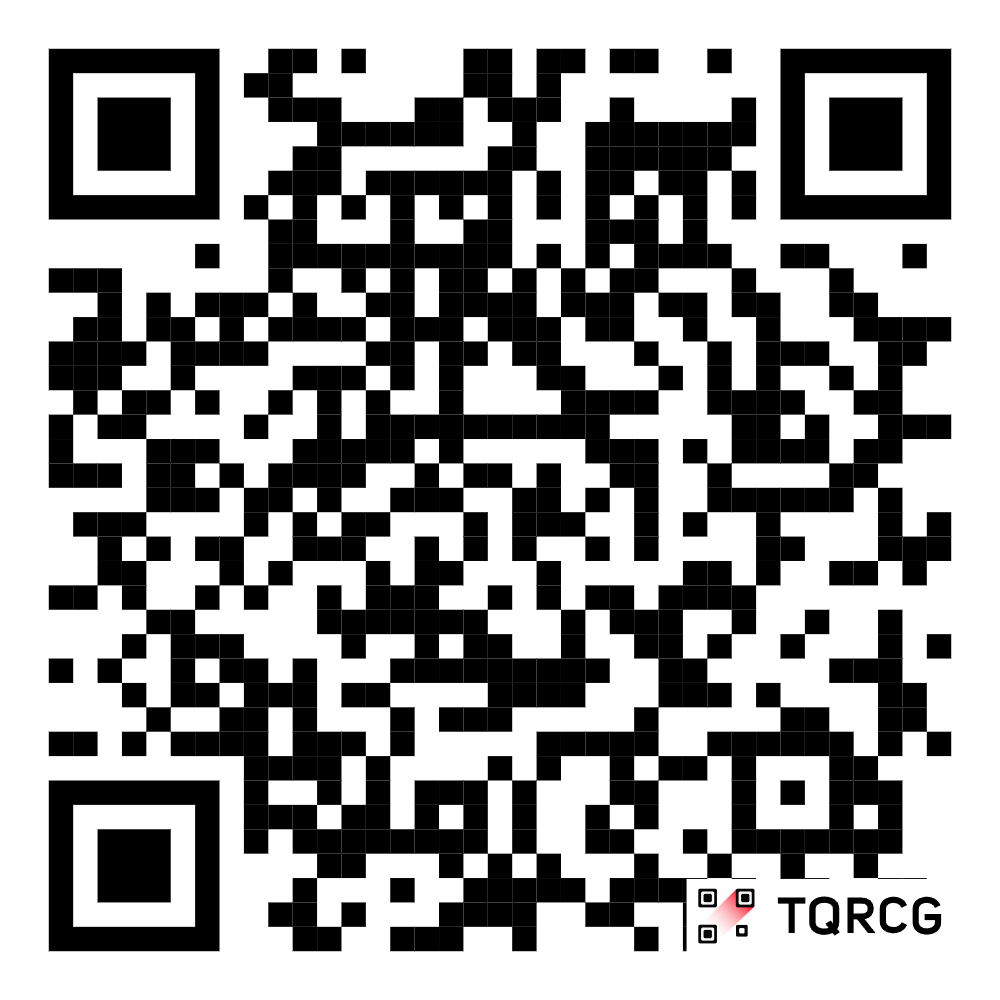
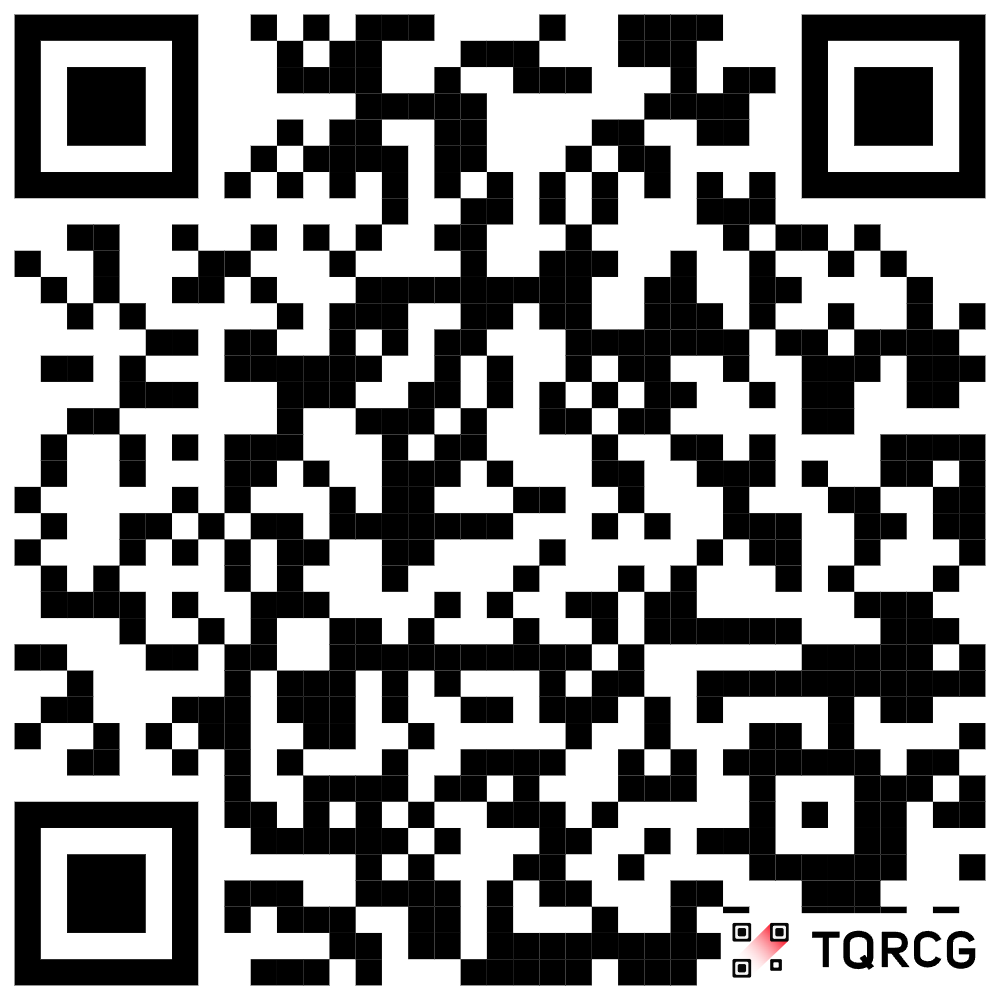
Replace QR code with new user upload and bump cache buster

diff --git a/index.html b/index.html
@@ -423,7 +423,7 @@
     <div class="side-flames-row">
       <img src="assets/ice_flame.png?v=12" alt="Ice Flame" class="flame-icon-left">
       <div class="qr-center-box">
-        <img src="assets/qr_code.png?v=12" alt="Scan QR Code to Play">
+        <img src="assets/qr_code.png?v=15" alt="Scan QR Code to Play">
       </div>
       <img src="assets/fire_flame.png?v=12" alt="Fire Flame" class="flame-icon-right">
     </div>
